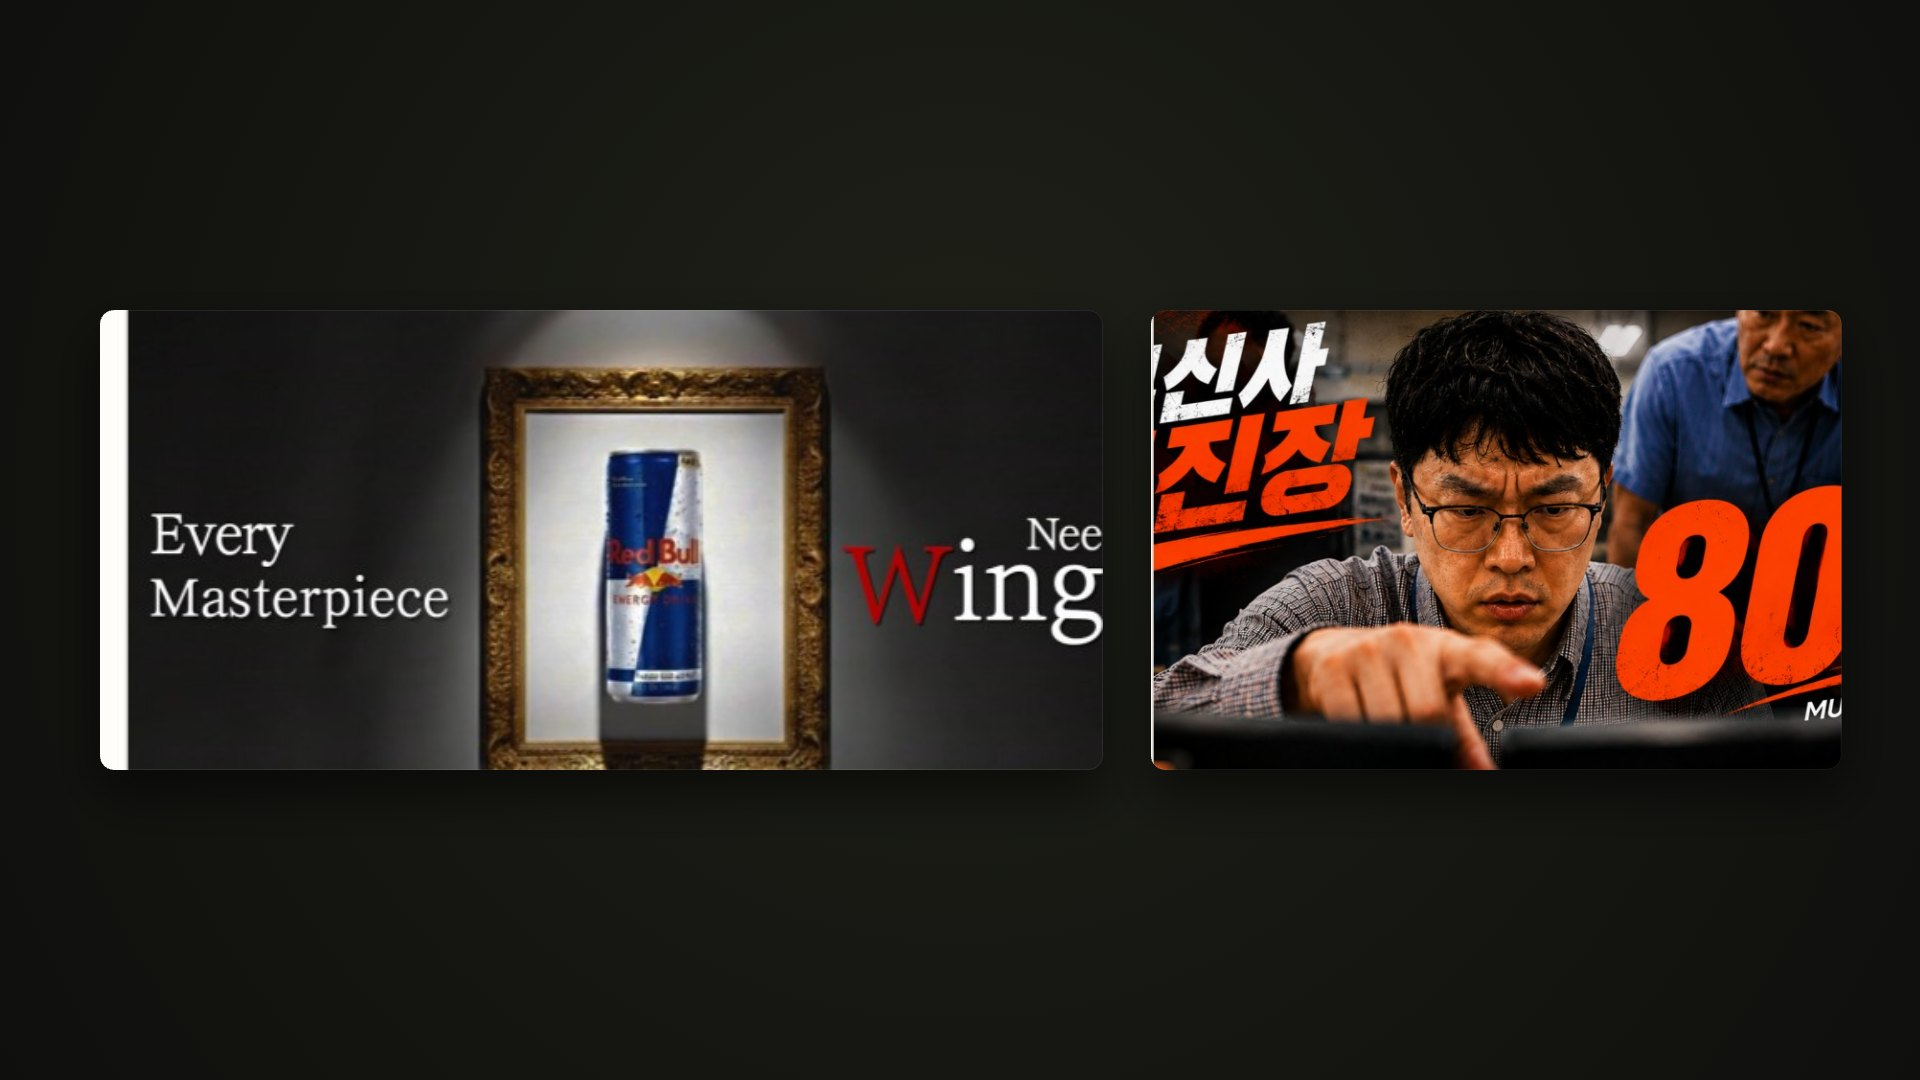
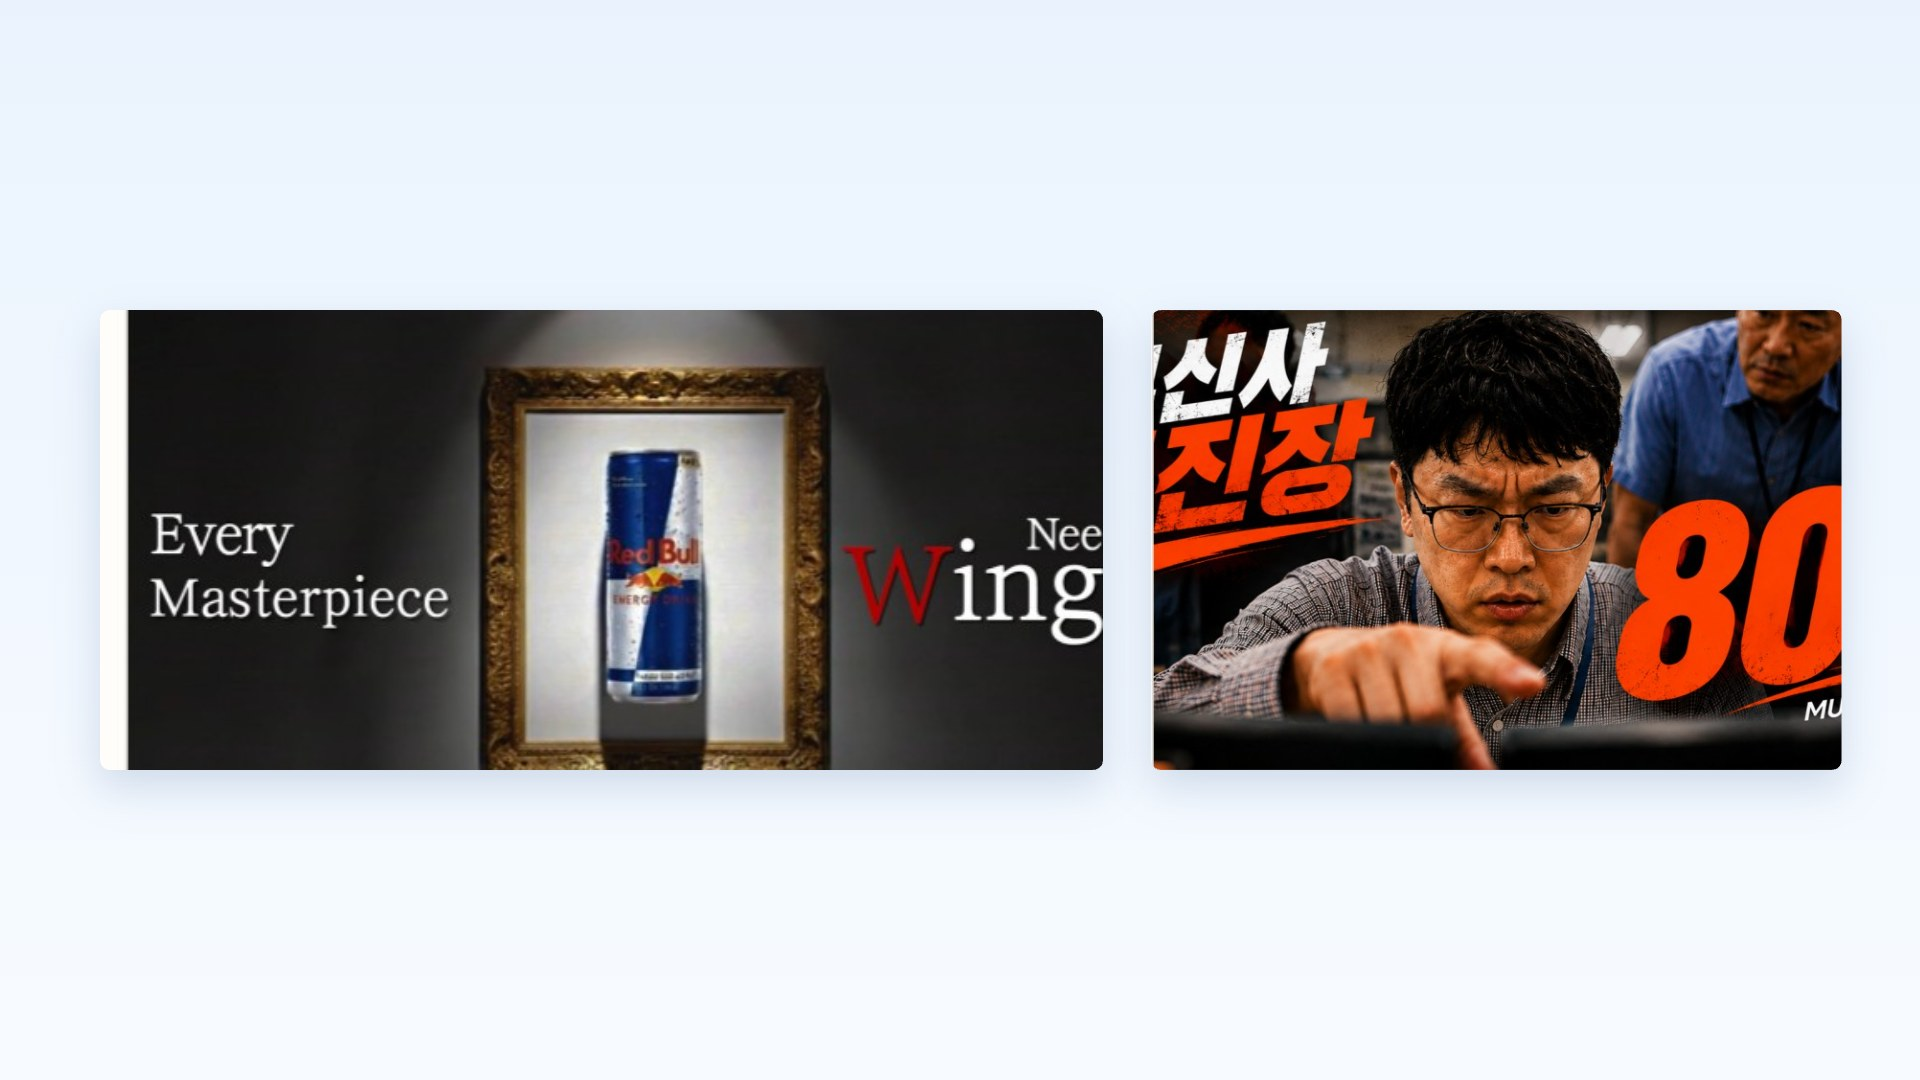
Light + sky blue, simplified titles

diff --git a/src/resources/content.tsx b/src/resources/content.tsx
@@ -46,26 +46,21 @@ const home: Home = {
   label: "홈",
   title: "오준상 — 포트폴리오",
   description: "만든 것이 실제로 쓰이는지 확인하는 기획자 오준상의 포트폴리오",
-  headline: <>만든 것이 실제로 쓰이는가를 끝까지 묻습니다</>,
+  headline: <>쓰이는 걸 만듭니다</>,
   featured: {
     display: true,
     title: (
       <Row gap="12" vertical="center">
-        <strong className="ml-4">GSA 중앙대</strong>{" "}
+        <strong className="ml-4">GSA</strong>{" "}
         <Line background="brand-alpha-strong" vert height="20" />
         <Text marginRight="4" onBackground="brand-medium">
-          Top Performance Team 2위
+          전국 2위
         </Text>
       </Row>
     ),
     href: "/work/gsa",
   },
-  subline: (
-    <>
-      사람들이 결과물 앞에서 멈추는 이유를 찾고, 다음 행동으로 이어질 흐름을 설계하는 <Text as="span" size="xl" weight="strong">오준상</Text>입니다.
-      <br /> 필요한 만큼 직접 만들어 실제 반응과 숫자로 확인합니다.
-    </>
-  ),
+  subline: <>서비스 기획 · 콘텐츠 마케팅 · AI 프로토타이핑</>,
 };
 
 const about: About = {

diff --git a/src/resources/once-ui.config.ts b/src/resources/once-ui.config.ts
@@ -73,11 +73,11 @@ const fonts: FontsConfig = {
 
 // default customization applied to the HTML in the main layout.tsx
 const style: StyleConfig = {
-  theme: "dark", // dark | light | system
+  theme: "light", // dark | light | system
   neutral: "gray", // sand | gray | slate | mint | rose | dusk | custom
-  brand: "custom" as any, // blue | indigo | violet | magenta | pink | red | orange | yellow | moss | green | emerald | aqua | cyan | custom
-  accent: "moss", // blue | indigo | violet | magenta | pink | red | orange | yellow | moss | green | emerald | aqua | cyan | custom
-  solid: "color", // color | contrast
+  brand: "blue", // blue | indigo | violet | magenta | pink | red | orange | yellow | moss | green | emerald | aqua | cyan | custom
+  accent: "cyan", // blue | indigo | violet | magenta | pink | red | orange | yellow | moss | green | emerald | aqua | cyan | custom
+  solid: "contrast", // color | contrast
   solidStyle: "flat", // flat | plastic
   border: "conservative", // rounded | playful | conservative | sharp
   surface: "translucent", // filled | translucent

diff --git a/src/components/Providers.tsx b/src/components/Providers.tsx
@@ -25,7 +25,6 @@ export function Providers({ children }: { children: React.ReactNode }) {
       <ThemeProvider
         theme={style.theme as "dark" | "light" | "system"}
         brand={style.brand as Schemes}
-        brandSeed="#D4F51F"
         accent={style.accent as Schemes}
         neutral={style.neutral as NeutralColor}
         solid={style.solid as SolidType}
